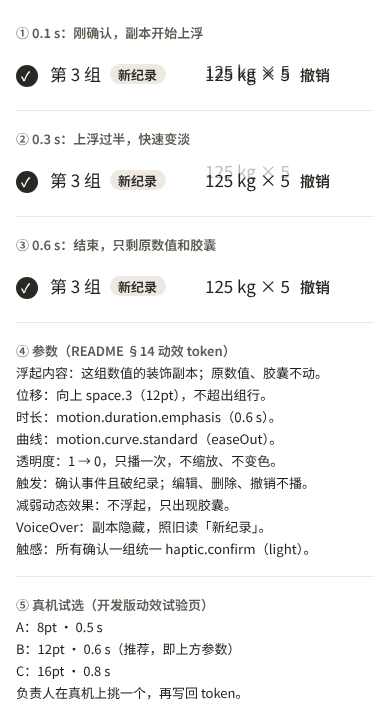
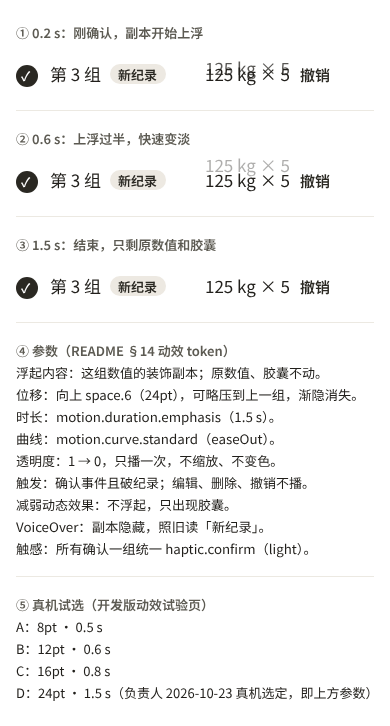
design: write the chosen record-float D tier back into README §14 and D-a3

diff --git a/design/design-system/README.md b/design/design-system/README.md
@@ -107,8 +107,8 @@ Phase 6.5 人工审核（T063）发现 8 个核心界面需要结构调整，并
   - 新增画板「D-a3 新纪录浮起（关键帧，2026-10-23）」，x=12650、y=3750（D7b-r 右侧）：0.1 / 0.3 / 0.6 s 三帧、参数标注、真机试选 A/B/C。
   - D-a2 ④ 触感说明改为「确认一组统一 light 触感；破纪录另有数字浮起，见 D-a3。」
 - 导出：`design/progress-milestones/D-a3-record-float@1x.png`（MCP 1x 参考图）。
-- 代码已实现（分支 `fix/record-float-motion`，2026-10-23）：`FCMotion` / `FCHaptic`（`ios/FineCoachApp/DesignSystem/FCMotion.swift`，internal：是 token 不是组件，不进 `components.md` §3 索引）；`DS-SET-ROW` 数值浮起；训练页、组圆圈、步进器迁移到 token；DEBUG 动效试验页。正式代码当前为 B 档（12pt / 0.6 s）。执行记录见 `design/progress-milestones/implementation-map.md` §4 Phase 8。
-- 最终位移和时长由负责人在真机动效试验页从 A/B/C 中选定后写回 §14。
+- 代码已实现（分支 `fix/record-float-motion`，2026-10-23）：`FCMotion` / `FCHaptic`（`ios/FineCoachApp/DesignSystem/FCMotion.swift`，internal：是 token 不是组件，不进 `components.md` §3 索引）；`DS-SET-ROW` 数值浮起；训练页、组圆圈、步进器迁移到 token；DEBUG 动效试验页。开发版试验页候选 A 8pt/0.5 s、B 12pt/0.6 s、C 16pt/0.8 s，负责人真机试后另加 D 档。执行记录见 `design/progress-milestones/implementation-map.md` §4 Phase 8。
+- **已选定 D 档**（产品负责人 2026-10-23 真机试过 B、C 与 D 24pt/1 s 后定为 24pt / 1.5 s，「12pt / 0.6 s 太克制，氛围感不足」；数字浮起时略压到上一组可以接受，反正会渐隐）：浮起距离 `space.6`（24pt），`motion.duration.emphasis` 0.6 s → 1.5 s，已写回 §14 并更新 Penpot D-a3（快照 `before-record-float D tier 2026-10-23` → `record-float D tier 24pt 1.5s 2026-10-23`，重新导出 `D-a3-record-float@1x.png`；分支 `fix/motion-lab-option-d`）。
 
 ## 2. 颜色
 
@@ -427,7 +427,7 @@ Phase 6.5 人工审核（T063）发现 8 个核心界面需要结构调整，并
 | C14 | 多名学员可同时训练（M1A-FR-018 2026-10-22 修订，W-08）后，今日页需要同时展示多节进行中的课；§2.4「每屏最多一个深色 hero 面板」不变 | 采用方案 A：一张 hero 卡的多行变体（见 §8 深色 hero 卡、`components.md` `DS-HERO-CARD`）；新增 `surface.dividerOnAction`；徽标改为最小宽 56、随文字增长（CG-6）。否决横向翻页（他人被隐藏、同屏露出两张深色卡）和 hero + 提示条（同为上课学员却主次不等） | 已定（产品负责人 2026-10-22） |
 | C15 | 集中走查 2026-10-22：分享报告结束后没有直接回到首页的入口，要一步步返回（预览 → 设置 → 总结「跳过分享」→ 学员详情 → 今日），至少两步 | 预览页（29）卡片之后常驻整宽次按钮「完成」（`DS-BUTTON` 次按钮），未分享、已交给系统、取消或失败时都显示；「完成」和总结页「跳过分享」都直接回到今日页（清空导航栈并切到「今日」）。否决：只在分享成功后才出现（未分享就离开仍要多步）；放在页头右上角（与「分享」抢位置） | 已定（产品负责人 2026-10-22） |
 | C16 | 集中走查 2026-10-22 D7/D8：总结页「上次 → 本次」几乎不出现（算新纪录的动作不再列进步，种子历史单调递增）；D2 同重量多做几次出现两个「新纪录」标记 | 新纪录只看主指标：重量严格高于历史最大（次数不限）、辅助重量更低、时长更长、次数更多；平手、第一次做、同重量多做几次、单组容量更高都不算。比上次进步：两节各取最好的一组（最重，同重量次数最多），一项更好另一项不变差算进步，一好一坏不列。每个动作一行「上次 … → 本次 …」，新纪录在同一行加胶囊；训练中每个动作只标一组。否决：加估算 1RM（PD-D6 维持）；容量纪录（日常「破纪录」指最大重量）。历史页「个人最佳」不变 | 已定（产品负责人 2026-10-23），已回填 Penpot D-a2、D-b、D-c2 |
-| C17 | 真机走查 2026-10-23：确认一组时 `.success` 与破纪录的 `.impact(heavy)` 在真机上区别不明显；设计系统没有动效 token，动效数值散写在代码里 | 所有确认一组统一 `haptic.confirm`（light impact）；破纪录时该组数值的装饰副本上浮 `space.3`、0.6 s easeOut 渐隐，只播一次，「新纪录」胶囊不变；「减弱动态效果」时不浮起。新增 §14 动效与触感 token（取自现有代码数值）。最终参数在开发版动效试验页的 A/B/C 三档中由负责人真机选定。否决：保留 heavy 触感（不易区分）；浮起胶囊（胶囊保持静态标记）；为 Penpot 建动效 token（不支持该类型） | 已定（产品负责人 2026-10-23），已回填 Penpot D-a2、D-a3 |
+| C17 | 真机走查 2026-10-23：确认一组时 `.success` 与破纪录的 `.impact(heavy)` 在真机上区别不明显；设计系统没有动效 token，动效数值散写在代码里 | 所有确认一组统一 `haptic.confirm`（light impact）；破纪录时该组数值的装饰副本上浮 `space.3`、0.6 s easeOut 渐隐（2026-10-23 真机选定后改为 D 档 `space.6`、1.5 s，见 §1.9），只播一次，「新纪录」胶囊不变；「减弱动态效果」时不浮起。新增 §14 动效与触感 token（取自现有代码数值）。最终参数在开发版动效试验页的 A/B/C 三档中由负责人真机选定。否决：保留 heavy 触感（不易区分）；浮起胶囊（胶囊保持静态标记）；为 Penpot 建动效 token（不支持该类型） | 已定（产品负责人 2026-10-23），已回填 Penpot D-a2、D-a3 |
 | C18 | 真机走查 2026-10-23：训练历史 → 训练记录（35）的返回是 iOS 26 系统液态玻璃大圆钮，与其他二级页的行内 `‹` 不一致；35 与 M2-13 画稿是导航栏居中「训练记录」+ 左侧 `‹`，`components.md` 曾把它列为例外 | 35 与 M2-13 改用 `DS-PAGE-HEADER`：行内 `‹` + 页面内 `titleLarge`「训练记录」，`.fcSecondaryPage()` 隐藏系统导航栏、保留右滑返回；其下日期、训练标题等内容不变，内容与页头间距 `space.6`。全 App 二级页只剩一种页头，例外取消。否决：保留居中标题、只把系统返回换成行内 `‹`（仍是第二种页头写法） | 已定（产品负责人 2026-10-23），已回填 Penpot D12（35）、M2-13，快照 `before-header35 2026-10-23` → `header35 inline page title (35, M2-13) 2026-10-23` |
 | O6 | 吉祥物造型与知名动画角色是否存在版权关联 | 产品负责人确认：吉祥物为其自行生成的原创形象，与该角色无关，不涉及版权问题 | 已定（产品负责人） |
 
@@ -504,7 +504,7 @@ Phase 6.5 人工审核（T063）发现 8 个核心界面需要结构调整，并
 ### 14.1 原则
 
 1. 只在状态变化时动：每个动效都要说明它告诉用户什么（记上了、出现了、破纪录了）。没有信息的动画不加。
-2. 克制：单个动效不超过 `motion.duration.emphasis`（0.6 s）；不循环，不用彩带、弹窗、全屏庆祝。
+2. 克制：单个动效不超过 `motion.duration.emphasis`（1.5 s，只有新纪录浮起用到这么长；其他动效不超过 `gentle` 0.35 s）；不循环，不用彩带、弹窗、全屏庆祝。
 3. 一套节奏：时长和曲线只用 14.2 的 token；位移距离用 §4 的间距 token。
 4. 触感只说一件事：确认、选择、提醒三种，不在每次点击上加触感。
 5. 「减弱动态效果」时一律降级：去掉位移和缩放，只保留淡入淡出或直接切换；触感不受影响。
@@ -517,13 +517,13 @@ Phase 6.5 人工审核（T063）发现 8 个核心界面需要结构调整，并
 | `motion.duration.fast` | 0.2 s | 状态切换：组圆圈描边 → 实心、确认框、编辑器内展开；「减弱动态效果」下的淡入淡出 |
 | `motion.duration.standard` | 0.25 s | 面板和条：底部面板、休息条滑入与淡出 |
 | `motion.duration.gentle` | 0.35 s | 页面内容出现（首次启动引导页） |
-| `motion.duration.emphasis` | 0.6 s | 一次性的强调反馈：新纪录数值浮起（D-a3） |
+| `motion.duration.emphasis` | 1.5 s | 一次性的强调反馈：新纪录数值浮起（D-a3） |
 | `motion.curve.standard` | `easeOut` | 默认：出现、离开、一次性反馈 |
 | `motion.curve.symmetric` | `easeInOut` | 会来回切换的状态：组圆圈、休息条显隐 |
 | `motion.spring.toggle` | `spring(response: 0.25, dampingFraction: 0.55)` | 开关类控件的回弹（分享设置的开关） |
 
 - 数字滚动（步进器、休息倒计时）用系统 `.numericText` 与默认动画，不另设 token。
-- 位移距离：内容出现上浮 `space.2`（8pt）；新纪录数值浮起 `space.3`（12pt）。
+- 位移距离：内容出现上浮 `space.2`（8pt）；新纪录数值浮起 `space.6`（24pt）。
 - 引导页的错峰延迟（0.25 / 0.35 / 0.45 / 0.55 s）是该页面的编排参数，不作为 token。
 
 ### 14.3 触感
@@ -542,7 +542,7 @@ Phase 6.5 人工审核（T063）发现 8 个核心界面需要结构调整，并
 | 时刻 | 表现 | 「减弱动态效果」时 |
 |---|---|---|
 | 确认一组 | 组圆圈 `fast` + `symmetric` 变为实心 ✓；`haptic.confirm` | 直接切换，保留触感 |
-| 确认一组且破纪录 | 同上；另有该组数值的装饰副本向上浮起 `space.3`、透明度 1 → 0，`emphasis` + `standard`，只播一次；「新纪录」胶囊同时出现（D-a3） | 不浮起，只出现胶囊 |
+| 确认一组且破纪录 | 同上；另有该组数值的装饰副本向上浮起 `space.6`、透明度 1 → 0，`emphasis` + `standard`，只播一次；「新纪录」胶囊同时出现（D-a3） | 不浮起，只出现胶囊 |
 | 步进 − / + | 数字 `.numericText` 滚动；`haptic.selection` | 直接切换数字 |
 | 休息条出现与收起 | 从底部滑入、收起淡出，`standard` | 只淡入淡出 |
 | 休息倒计时 | 每秒 `.numericText` 滚动 | 直接切换数字 |
